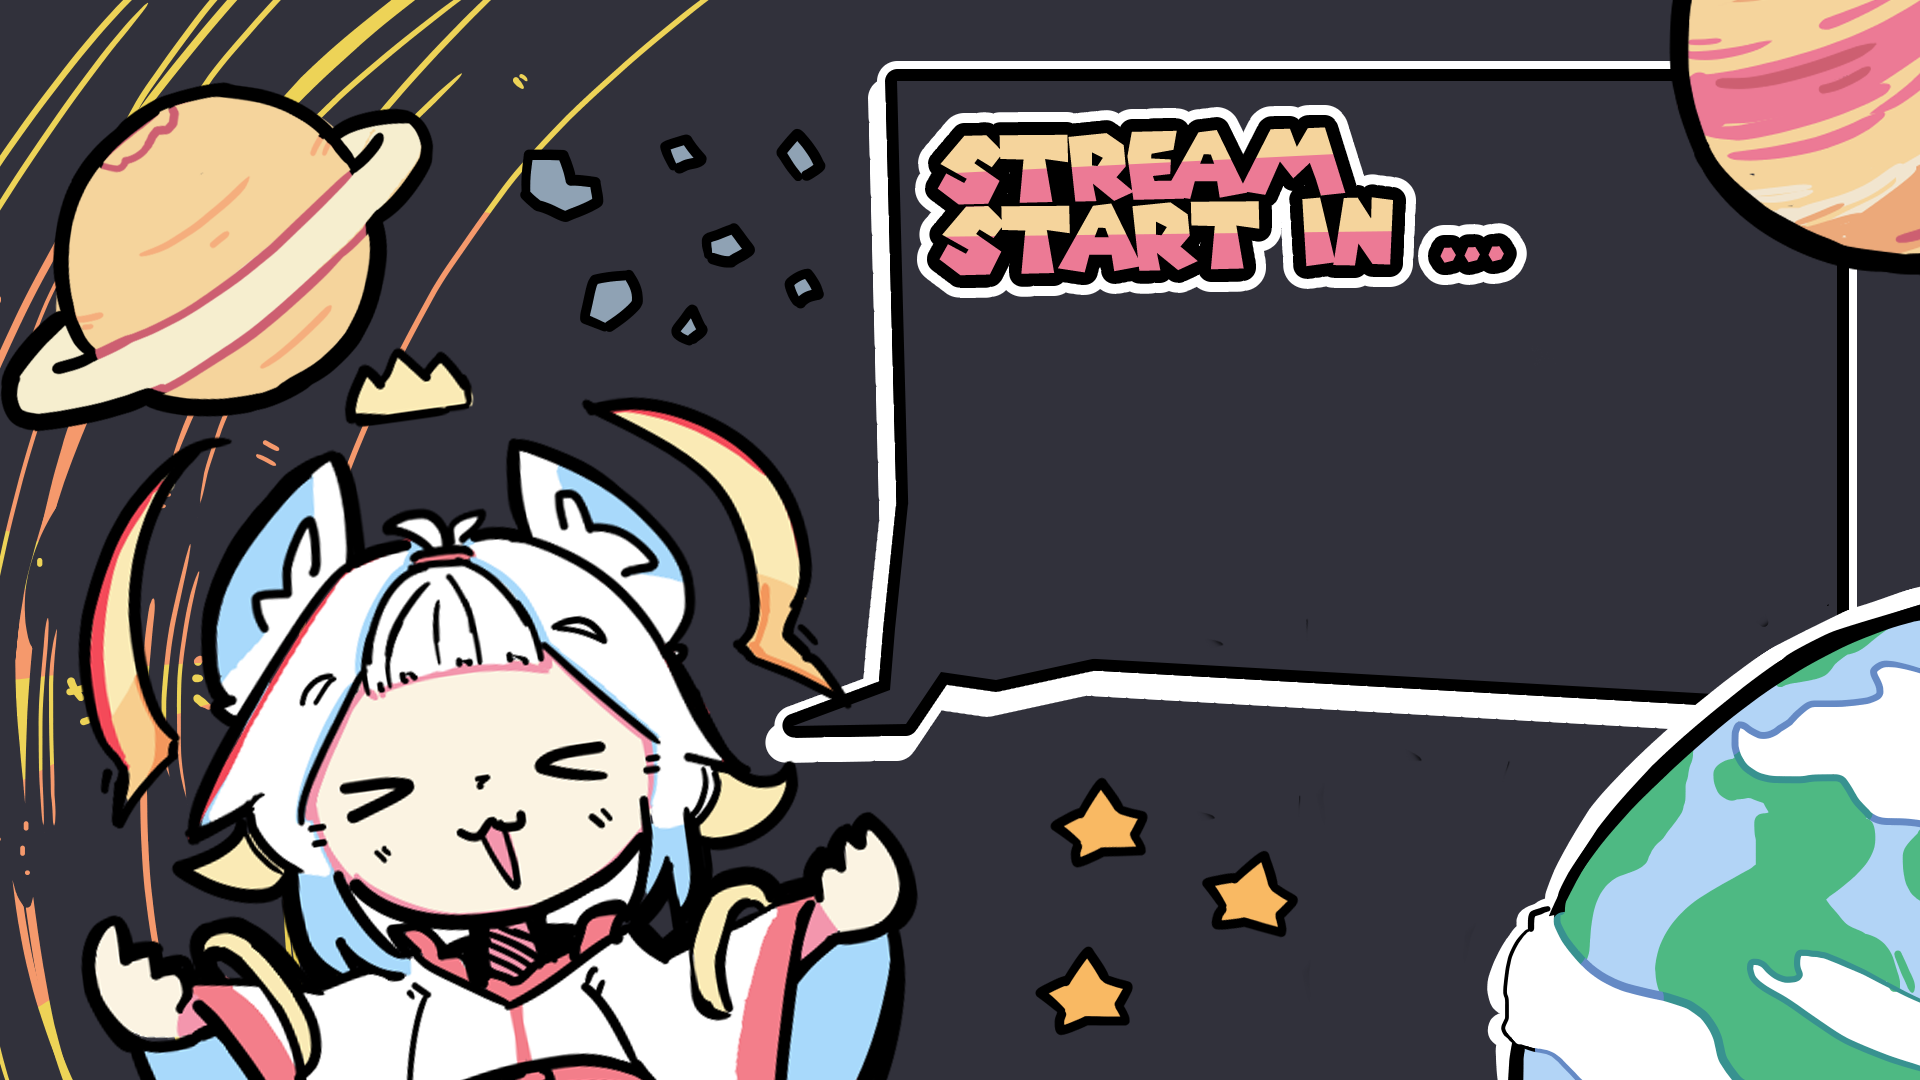
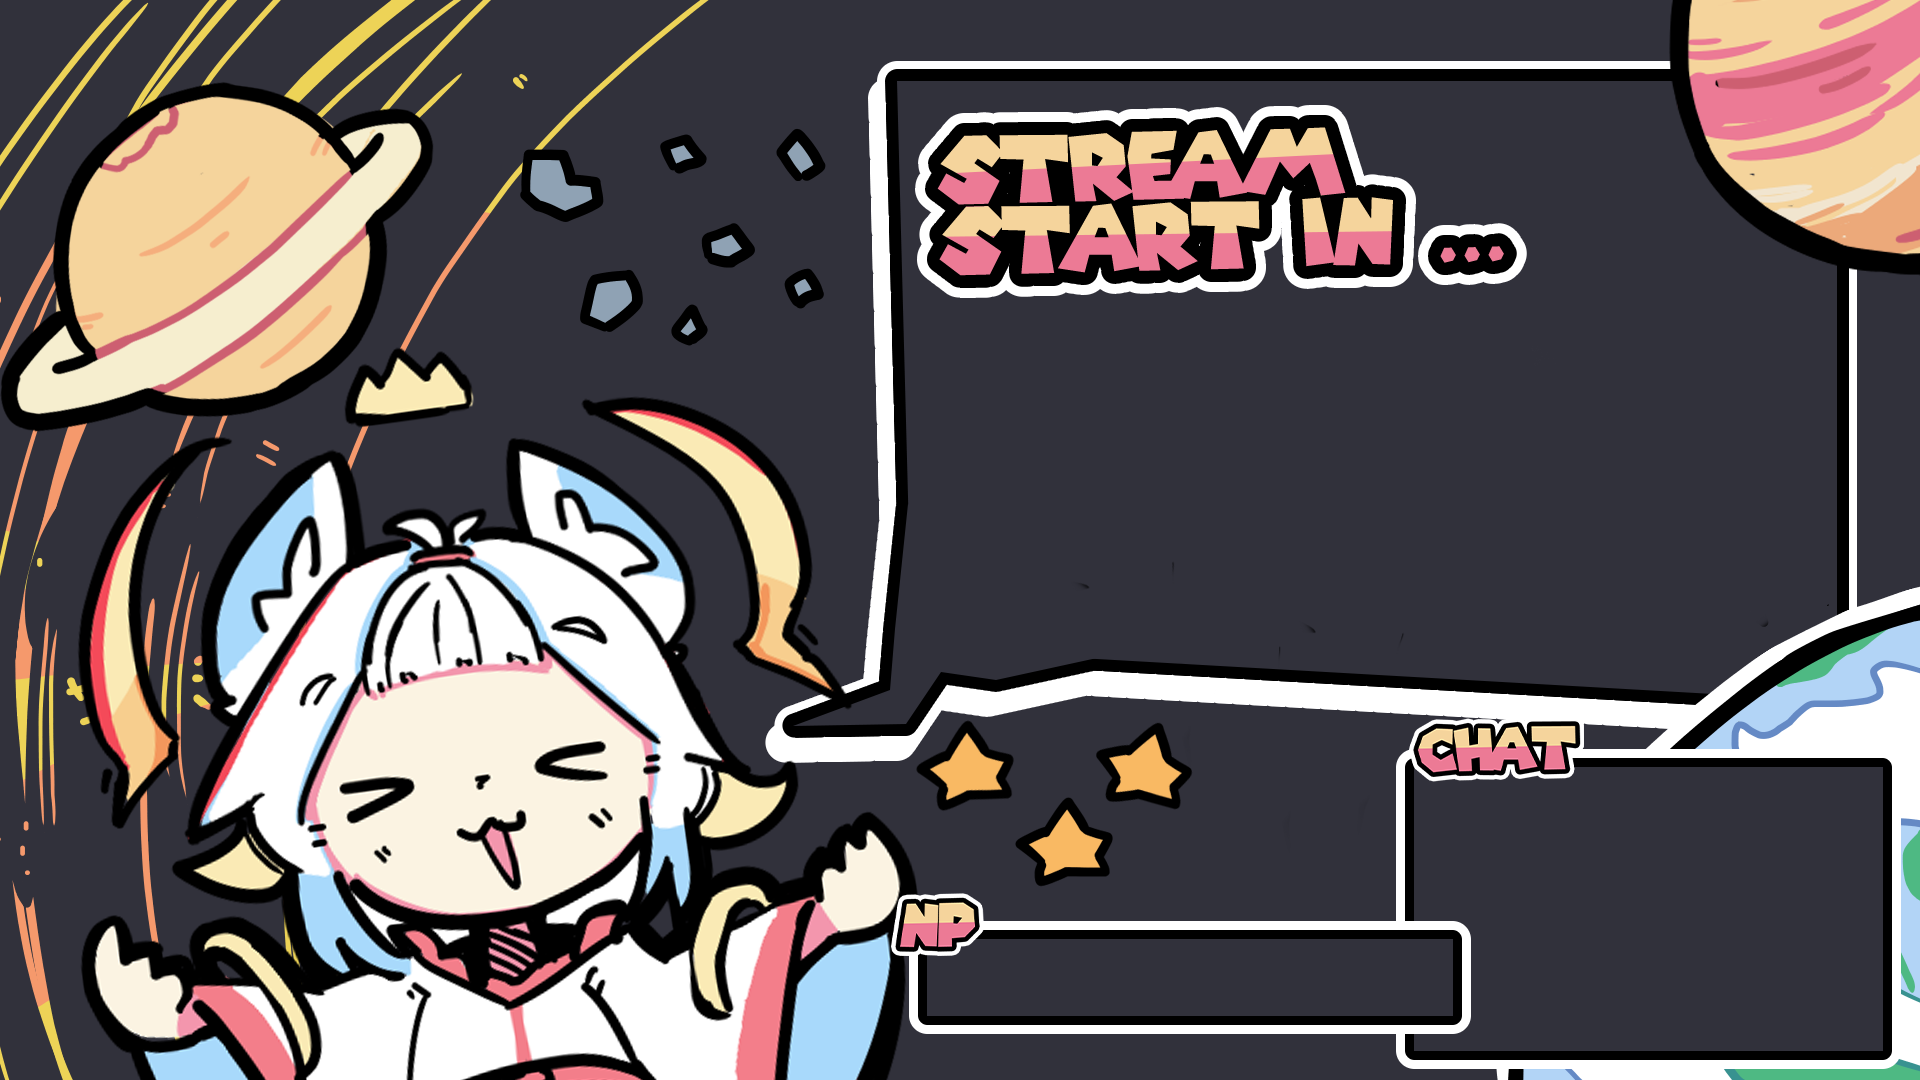
chore: get backgounds working again

Changed region(s): [[0.4688, 0.6417, 1.0, 1.0], [0.4688, 0.6722, 0.625, 0.825]]

diff --git a/showcase/style.css b/showcase/style.css
@@ -1,19 +1,15 @@
 :root {
-    --page-background: url("static/background.png");
-
-    /* Canvas */
     --greenscreen-height: 842px;
-
-    /* Now Playing */
     --now-playing-width: 977px;
     --now-playing-height: 177px;
-
-    /* Colours */
     --green-screen: #0f0;
     --now-playing-mod: #3b7cc4;
     --white: #fff;
     --black: #000;
 }
+
+/* Whole Page */
+.main { background-image: url("static/background.png"); }
 
 /* White Strip */
 .white-strip {

diff --git a/hp-bar/style.css b/hp-bar/style.css
@@ -1,10 +1,12 @@
 :root {
-    --page-background: url("static/background.png");
     --team-name-container-x: 245px;
     --hp-bar-container-x: 10px;
     --hp-bar-container-skew: 5deg;
     --hp-bar-x: 7px;
 }
+
+/* Whole Page */
+.main { background-image: url("static/background.png"); }
 
 /* Team Name */
 .svg-container { position: absolute; }

diff --git a/main/style.css b/main/style.css
@@ -1,10 +1,12 @@
 :root {
-    --page-background: url("static/background.png");
     --greenscreen-top-y: 170px;
     --greenscreen-width: 480px;
     --greenscreen-height: 360px;
     --team-score-container-x: 941px;
 }
+
+/* Whole Page */
+.main { background-image: url("static/background.png"); }
 
 /* Green Screens */
 .greenscreen {

diff --git a/showcase/index.html b/showcase/index.html
@@ -6,7 +6,6 @@
     <title>Gameplay</title>
 
     <link rel="stylesheet" href="../_shared/css/style.css">
-    <link rel="stylesheet" href="../_shared/css/page-background.css">
     <link rel="stylesheet" href="style.css">
 
     <script src="../_shared/deps/reconnecting-websocket.min.js"></script>

diff --git a/winner/index.html b/winner/index.html
@@ -6,7 +6,6 @@
     <title>Winner</title>
 
     <link rel="stylesheet" href="../_shared/css/style.css">
-    <link rel="stylesheet" href="../_shared/css/page-background.css">
     <link rel="stylesheet" href="../_shared/css/overlay.css">
     <link rel="stylesheet" href="style.css">
 </head>

diff --git a/main/index.html b/main/index.html
@@ -6,7 +6,6 @@
     <title>Gameplay</title>
 
     <link rel="stylesheet" href="../_shared/css/style.css">
-    <link rel="stylesheet" href="../_shared/css/page-background.css">
     <link rel="stylesheet" href="../_shared/css/overlay.css">
     <link rel="stylesheet" href="style.css">
 

diff --git a/mappool/index.html b/mappool/index.html
@@ -6,7 +6,6 @@
     <title>Mappool</title>
 
     <link rel="stylesheet" href="../_shared/css/style.css">
-    <link rel="stylesheet" href="../_shared/css/page-background.css">
     <link rel="stylesheet" href="../_shared/css/overlay.css">
     <link rel="stylesheet" href="style.css">
 

diff --git a/hp-bar/index.html b/hp-bar/index.html
@@ -6,7 +6,6 @@
     <title>Countdown</title>
 
     <link rel="stylesheet" href="../_shared/css/style.css">
-    <link rel="stylesheet" href="../_shared/css/page-background.css">
     <link rel="stylesheet" href="style.css">
 
     <script src="../_shared/deps/countUp.js"></script>

diff --git a/countdown/index.html b/countdown/index.html
@@ -6,7 +6,6 @@
     <title>Countdown</title>
 
     <link rel="stylesheet" href="../_shared/css/style.css">
-    <link rel="stylesheet" href="../_shared/css/page-background.css">
     <link rel="stylesheet" href="style.css">
 </head>
 <body>

diff --git a/winner/style.css b/winner/style.css
@@ -1,7 +1,9 @@
 :root {
-    --page-background: url("static/background.png");
     --winner-gap: 55px;
 }
+
+/* Whole Page */
+.main { background-image: url("static/background.png"); }
 
 /* Round Winner */
 .round-winner-container {

diff --git a/countdown/style.css b/countdown/style.css
@@ -1,5 +1,5 @@
-:root {
-    --page-background: url("static/background.png");
+.main {
+    background-image: url("static/background.png");
 }
 
 /* Timer (digits are updated from index.js via .timer-minutes / .timer-seconds) */

diff --git a/mappool/style.css b/mappool/style.css
@@ -1,6 +1,5 @@
-:root {
-    --page-background: url("static/background.png");
-}
+/* Whole Page */
+.main { background-image: url("static/background.png"); }
 
 /* Mappool Container */
 .mappool-container {
